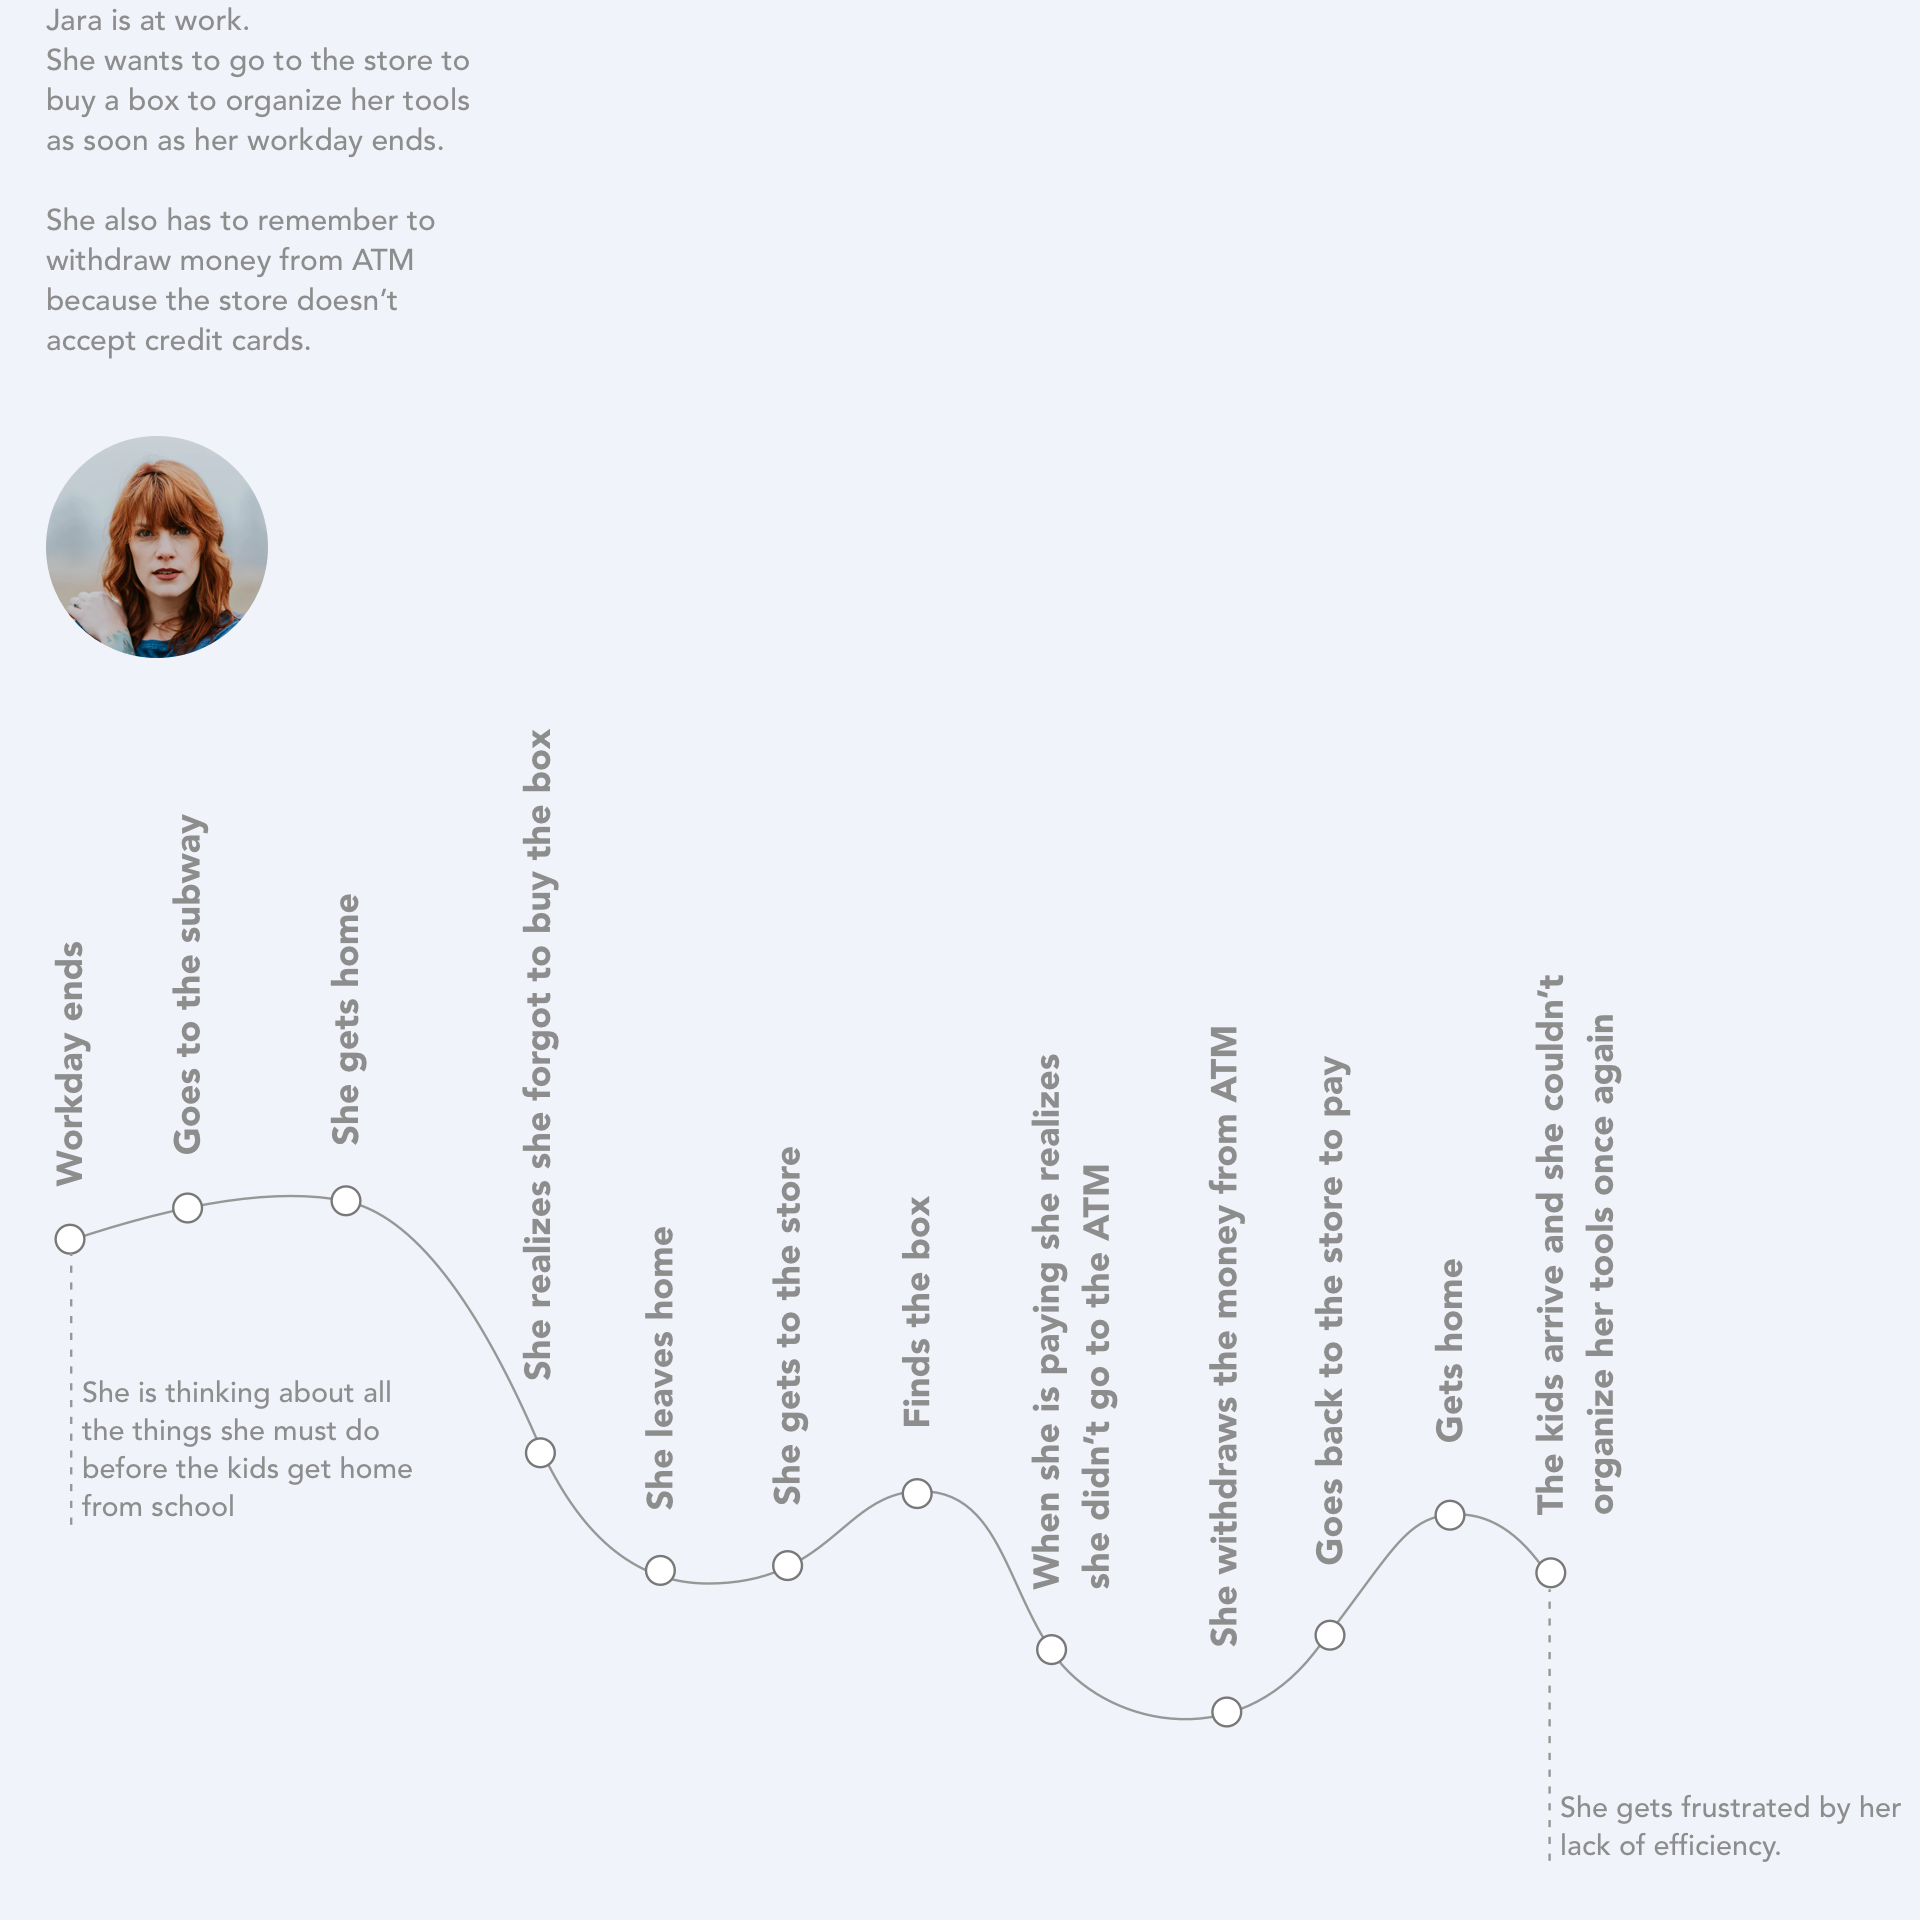
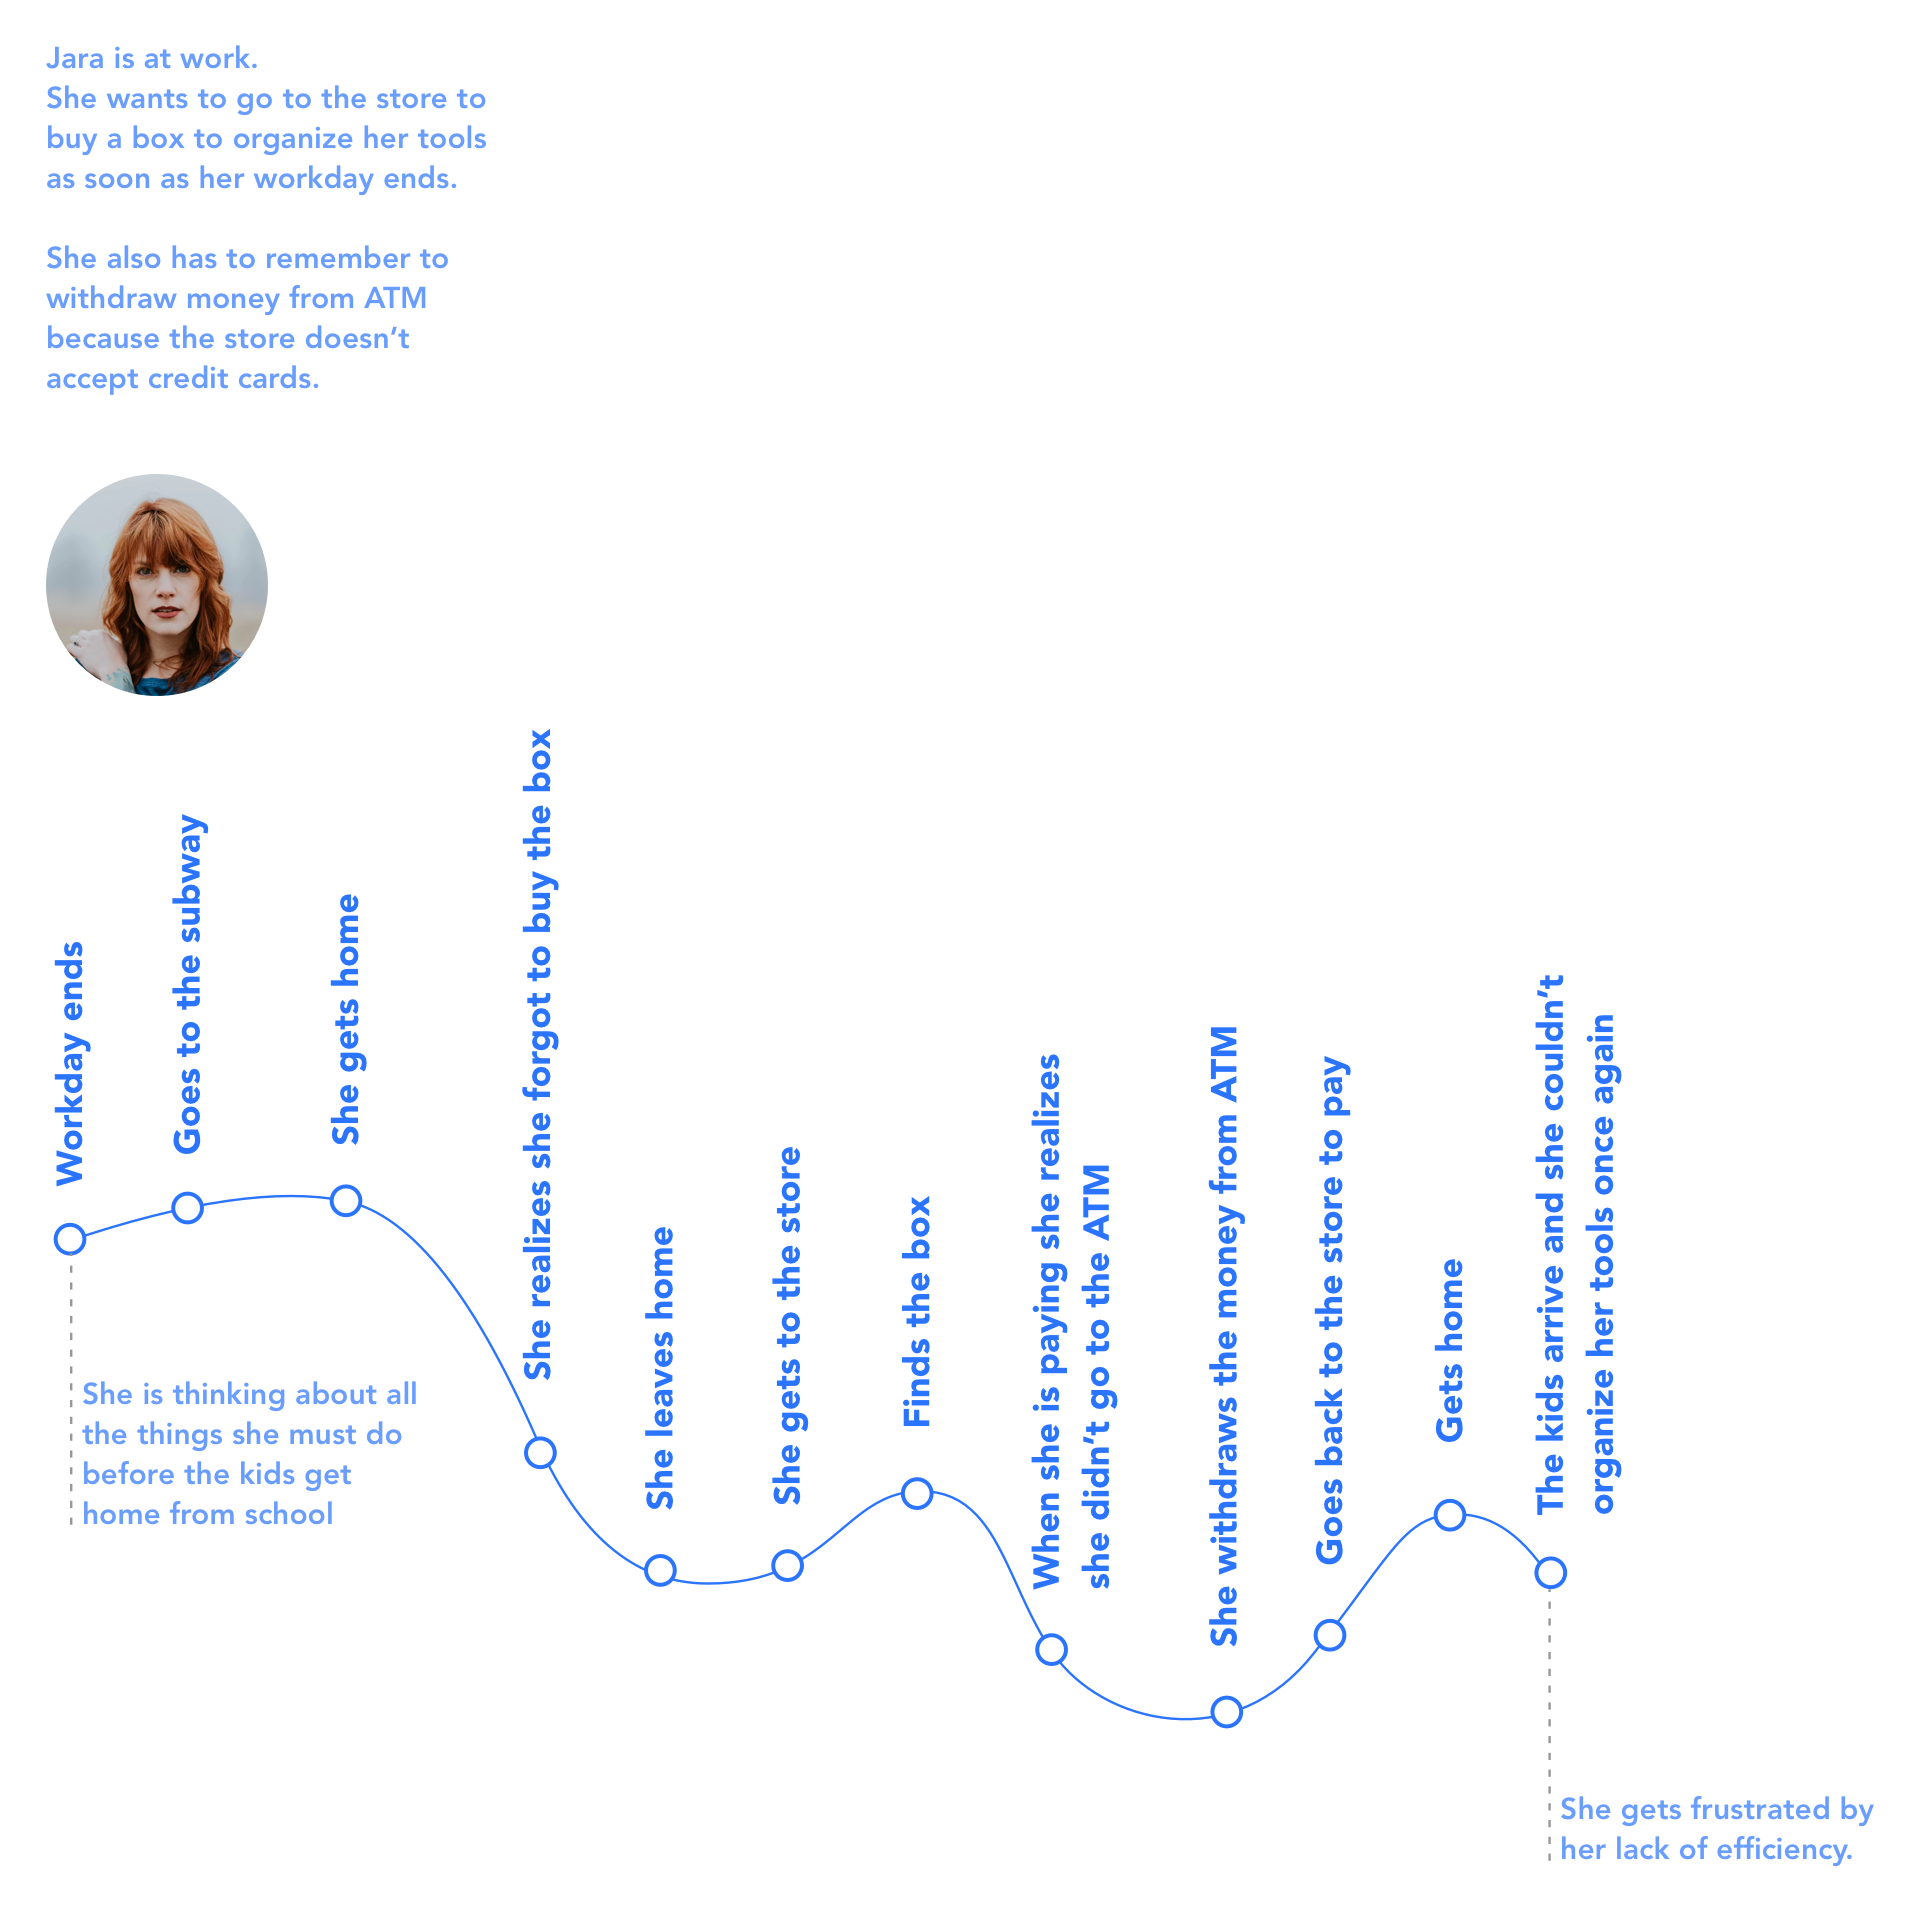
correccions

diff --git a/index.html b/index.html
@@ -43,7 +43,10 @@
                         check out my latest projects<br>
                         and drop me a line if you<br>
                         feel like working together<br><br></p>
-                        <p>lauraventurarubio@gmail.com</p>
+                        <a href="mailto:lauraventurarubio@gmail.com">
+                            <button class="boto hoverblau">Let's talk!</button>
+                        </a>
+                        <!-- <p>lauraventurarubio@gmail.com</p> -->
                     </div>
                     
                     <!-- activat nomes per mbl -->
@@ -163,8 +166,12 @@
                         <h2>About me<br><br></h2>
                         <p>I am a UX/UI designer based in Barcelona. I work to develop projects that make a difference to someone. I'm looking forward to working in a team that shares those values. I am consistent, analytic, empathetic, and most of all, I persevere. <br>
                             I have basic HTML and CSS knowledge, and I'm open to broadening my programming skills.  <br><br></p>
-                        <p>I studied Audiovisual Design and recently completed a UX/UI Bootcamp to learn new user-centered methodologies. If you'd like to get to know me, here's my email address: lauraventurarubio@gmail.com<br><br></p>
-                        <a href="https://www.linkedin.com/in/laura-ventura-9456b253/" target="_blank"><i class="fab fa-linkedin fa-2x"></i></a>
+                        <p>I studied Audiovisual Design and recently completed a UX/UI Bootcamp to learn new user-centered methodologies.<br><br></p>
+                        <!-- <a href="mailto:lauraventurarubio@gmail.com">
+                            <button class="boto hoverblau">Let's talk!</button>
+                        </a> -->
+                        <a href="mailto:lauraventurarubio@gmail.com" <i class="fa fa-envelope fa-2x" style="margin-right: 10px; color:rgb(168, 168, 168);"></i></a>
+                        <a href="https://www.linkedin.com/in/laura-ventura-9456b253/" target="_blank"><i class="fab fa-linkedin fa-2x" style="color:rgb(168, 168, 168);"></i></a>
                         <!-- <a href="https://drive.google.com/file/d/1bLIEQ5Pk1zQzz-XB55Mk99B1JCpef_Ai/view?usp=sharing" target="_blank"><i class="fas fa-file-pdf fa-2x"></i></a> -->
  
                     </div>

diff --git a/css/styles.css b/css/styles.css
@@ -193,7 +193,7 @@ h2{
 }
 
 .text.about{
-    padding: 20% 20% 10% 20%;
+    padding: 20% 20% 20% 20%;
 }
 
 .boto{
@@ -229,10 +229,20 @@ h2{
     transition: all 0.4s ease 0s;
 }
 
+.boto.hoverblau:hover {
+    color: #ffffff !important;
+    background: #0D4AFB;
+    border-color: #0D4AFB !important;
+    transition: all 0.4s ease 0s;
+}
+
+/* .fa .fab{
+    margin-right: 40px; 
+}  */
 
 /* colors */
 .blau{
-    background-color: #0D4AFB;
+    background-color: #2A74FF;
 }
 
 .blauabout{

diff --git a/jiminy.html b/jiminy.html
@@ -60,7 +60,7 @@
 
             <!--prototype-->
             <section class="seccio" id="prototip">
-                <div class="bloc blaugriset foto">
+                <div class="bloc blau foto">
                     <div class="imatge">
                         <div class="aspect-ratio-square">
                             <img src="img/about_jiminy.png" />
